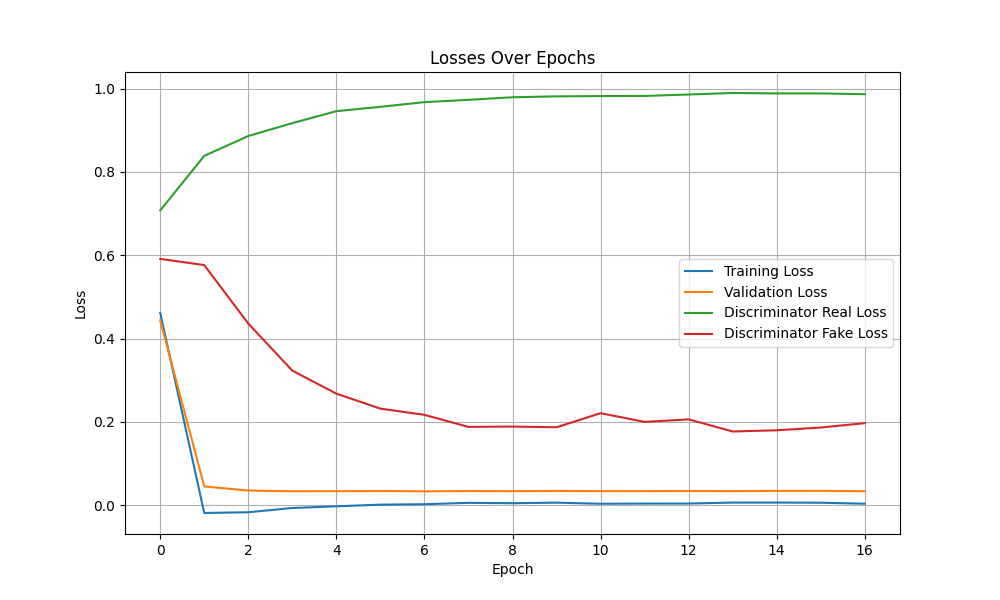
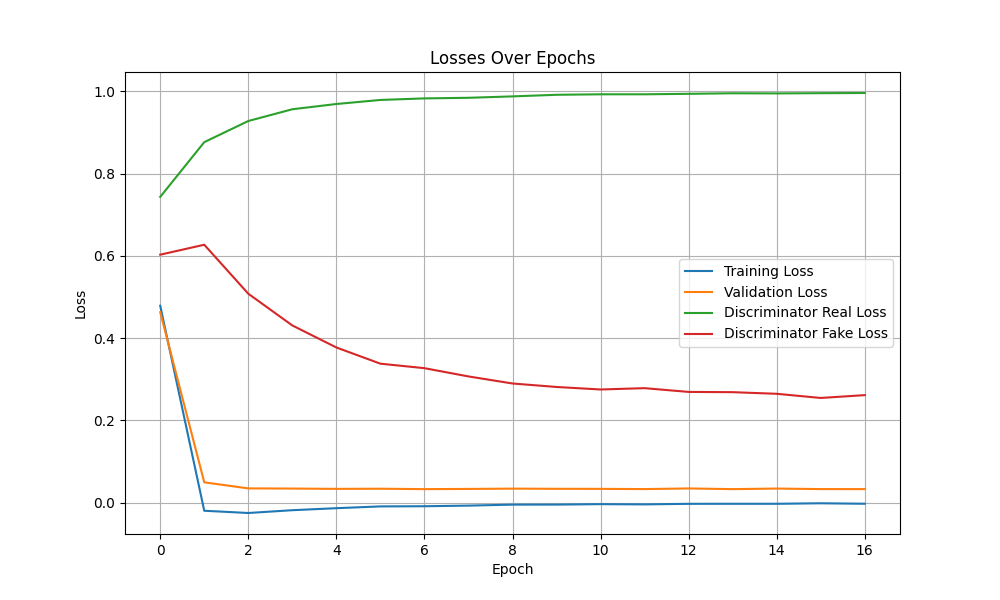
ST for generation

diff --git a/src/ST-graph/main_c.py b/src/ST-graph/main_c.py
@@ -217,7 +217,7 @@ def Train_Model(
     loss_MSE = torch.nn.MSELoss()
     loss_L1 = torch.nn.L1Loss()
 
-    learning_rate = 0.0001
+    learning_rate = 0.0005
     optimizer = torch.optim.RMSprop(model.parameters(), lr=learning_rate)
     optimizer_adv = torch.optim.RMSprop(discriminator.parameters(), lr=learning_rate)
     adversarial_loss = wasserstein_loss
@@ -631,7 +631,7 @@ if __name__ == "__main__":
     Z = linkage(distance_matrix, method="ward")
 
     # クラスタ数を決定 (例: 2クラスタ)
-    num_clusters = 30
+    num_clusters = 25
     clusters = fcluster(Z, num_clusters, criterion="maxclust")
 
     device = torch.device("cuda" if torch.cuda.is_available() else "cpu")

diff --git a/src/ST-graph/Cluster_based_memory_s.py b/src/ST-graph/Cluster_based_memory_s.py
@@ -265,7 +265,9 @@ class Cluster_based_memory(nn.Module):
             c = Cell_State
             forecasts = outputs[:, -1, :].squeeze()
 
-            local_statistics = self.q_for_memory(torch.cat((forecasts, forecasts, forecasts), 1))
+            locals = torch.cat((forecasts.unsqueeze(1), forecasts.unsqueeze(1), forecasts.unsqueeze(1)), 1)
+
+            local_statistics = torch.tensordot(locals, self.local_weights, dims=([1], [0]))
 
             self.local_statistics = local_statistics
 

diff --git a/src/ST-graph/Cluster_based_memory_c.py b/src/ST-graph/Cluster_based_memory_c.py
@@ -268,7 +268,9 @@ class Cluster_based_memory(nn.Module):
             c = Cell_State
             forecasts = outputs[:, -1, :].squeeze()
 
-            local_statistics = self.q_for_memory(torch.cat((forecasts, forecasts, forecasts), 1))
+            locals = torch.cat((forecasts.unsqueeze(1), forecasts.unsqueeze(1), forecasts.unsqueeze(1)), 1)
+
+            local_statistics = torch.sum(locals * self.local_weights, dim=1)
 
             self.local_statistics = local_statistics
 

diff --git a/src/ST-graph/main_s.py b/src/ST-graph/main_s.py
@@ -631,7 +631,7 @@ if __name__ == "__main__":
     Z = linkage(distance_matrix, method="ward")
 
     # クラスタ数を決定 (例: 2クラスタ)
-    num_clusters = 30
+    num_clusters = 25
     clusters = fcluster(Z, num_clusters, criterion="maxclust")
 
     device = torch.device("cuda" if torch.cuda.is_available() else "cpu")
